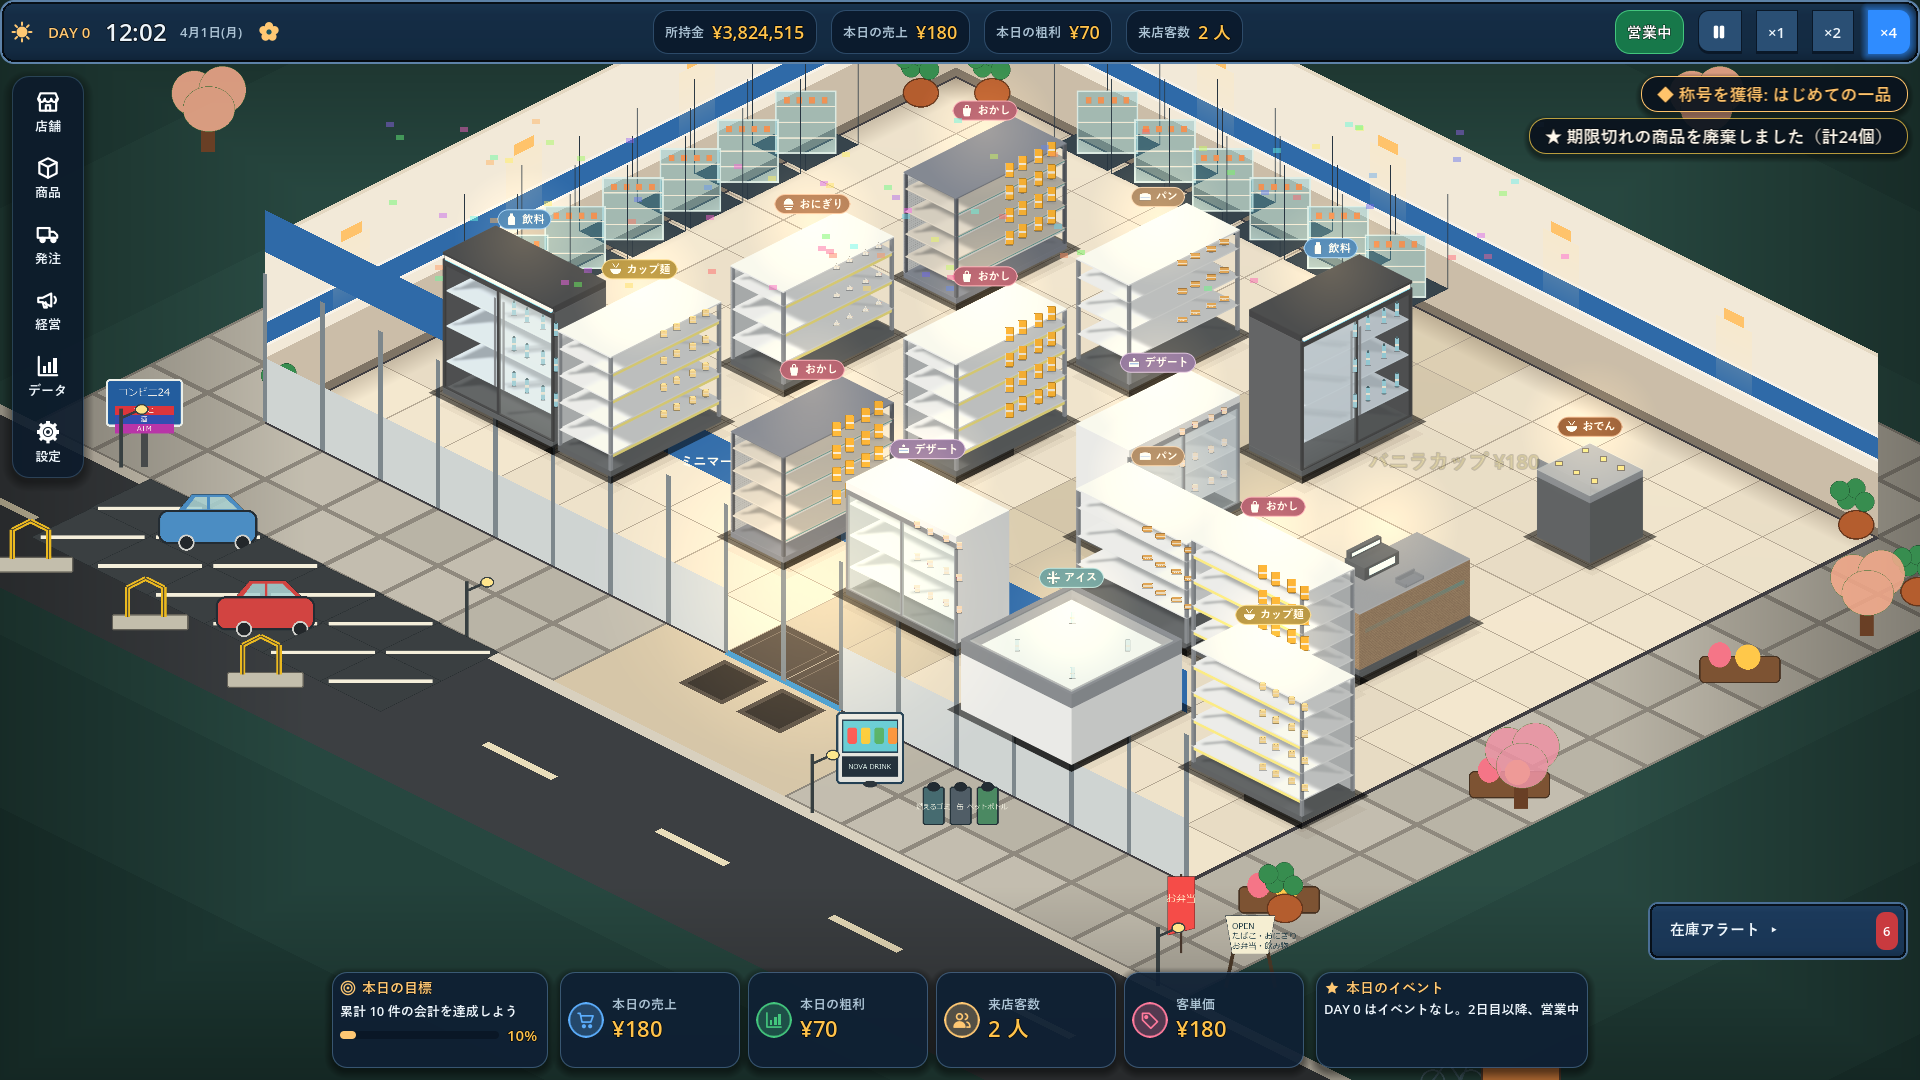
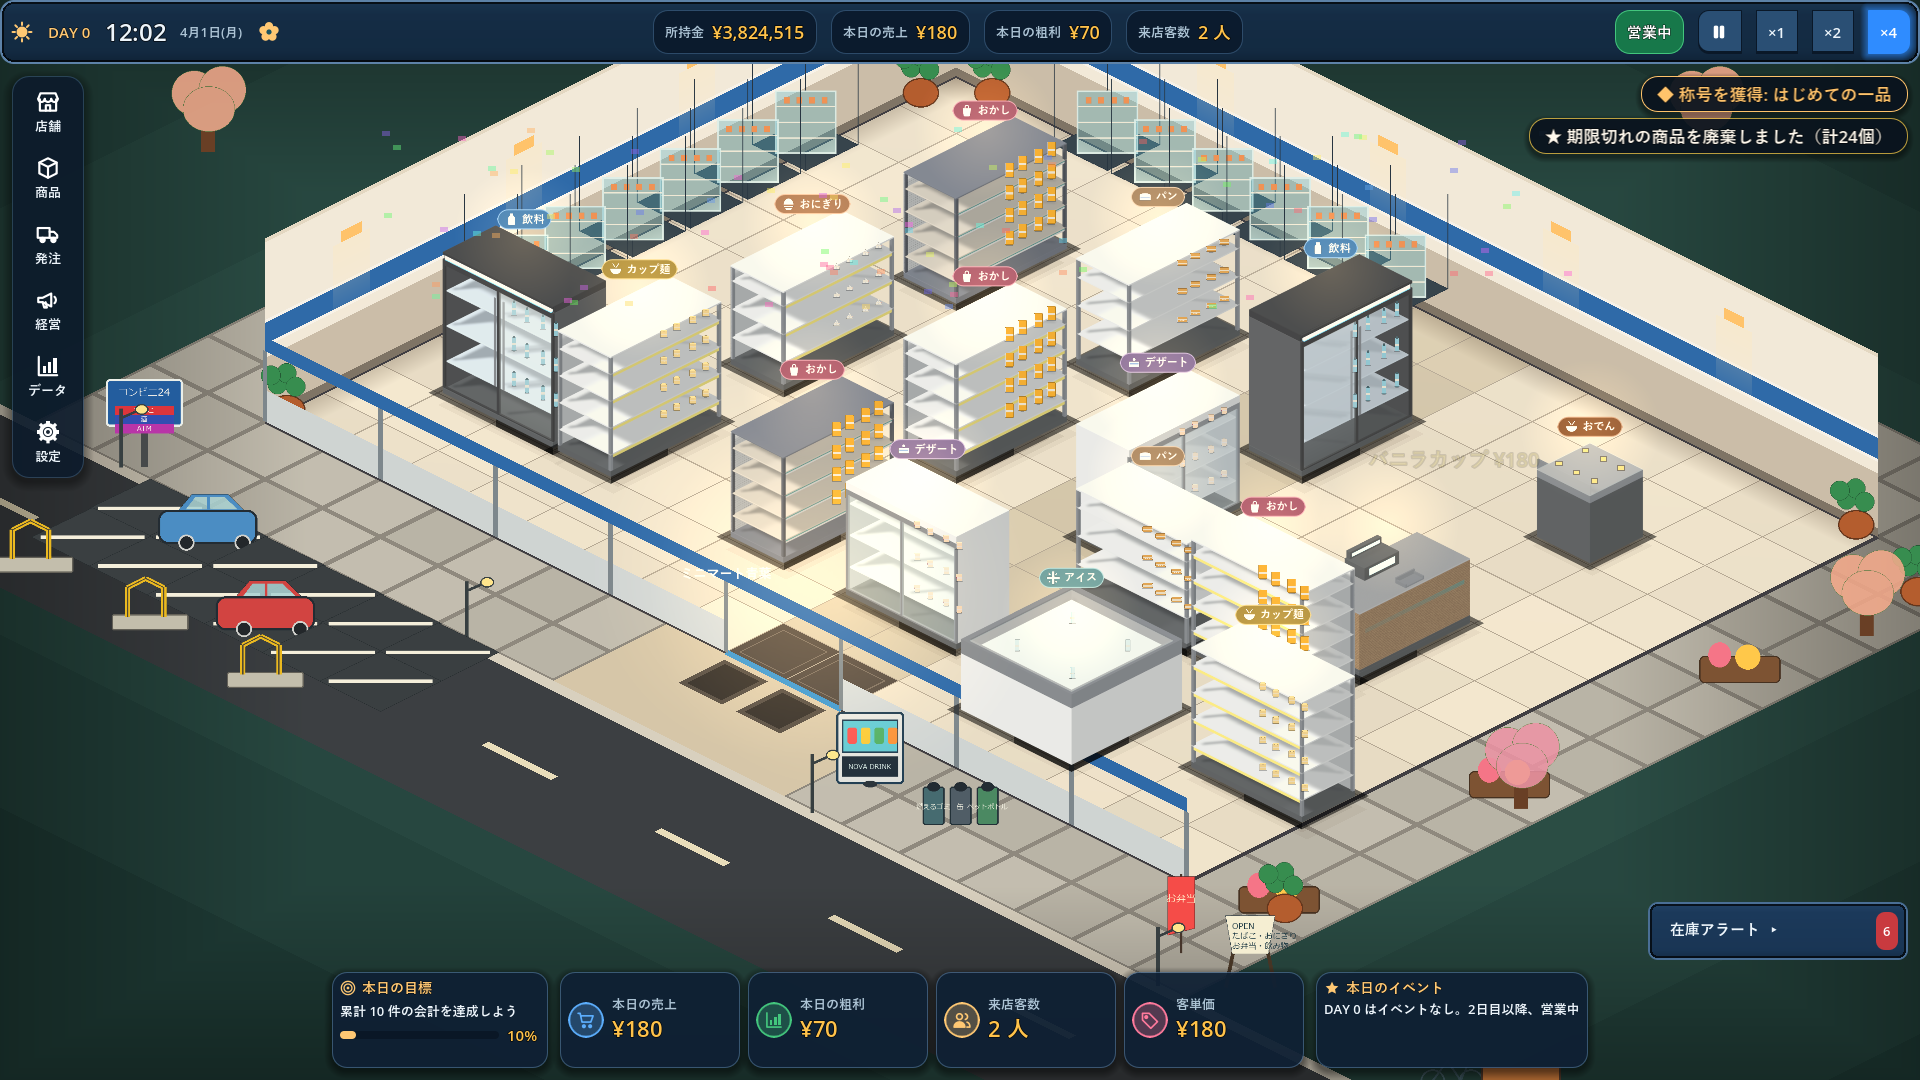
feat(decor): low cut-away storefront on the near side; keep the door aisle clear in QA layouts
- Near storefront: sill 0.45 m, short window frames with a mullion every other tile up to 1.0 m, and a thin fascia
  cap 1.0-1.2 m. Nothing rises above ~1.2 m, so the interior stays visible. The door is a clear opening with mats.
  Sill and frames are one polygon per run (fewer draw ops).
- QA/bench fixture plans (tools/perf_bench.gd, tools/capture_screen.gd): shelf_snack moved from (7,11) to (12,11)
  so the row by the door stays an aisle. Same fixture count (20) and customers (30). Gameplay data unchanged.
- Perf (x1, 1920x1080, 3 runs each): before median 20.9/18.1/17.7 ms, after 17.4/17.4/20.5 ms; within run-to-run noise.
- Tests: tests=472 failures=0, no SCRIPT ERROR.
- docs/qa/MVP_ACCEPTANCE_RESULTS.md: records the move, the plan change and the measurements.

diff --git a/docs/qa/MVP_ACCEPTANCE_RESULTS.md b/docs/qa/MVP_ACCEPTANCE_RESULTS.md
@@ -71,3 +71,13 @@
 - 図形は箱ベースの仮アセット（#12 で差し替え予定）。モックアップとの見た目の差は、別途比較して調整する。
 - 人手による初見プレイ・Windows実機の通しE2Eは未実施。
 - BGM・環境音は未実装。効果音はコード合成で、初期状態はミュート。
+
+## 正面出入口（南壁）への移動と計測条件の変更(2026-10-24、feature/m12-front-entrance)
+- 新規ゲームの出入口を西壁(0,5),(0,6)から南壁(8,11),(9,11)へ移動。保存データは各自の出入口を保持するため、旧セーブはそのまま読める。
+- 正面は低い切り欠き型: 腰壁(0.45 m)・窓枠(1.0 m まで)・薄い看板帯(1.0〜1.2 m)のみ。出入口は開口、マットあり。
+- 計測用の什器配置の変更(tools/perf_bench.gd, tools/capture_screen.gd のみ。ゲームデータは変更なし): 出入口の前の (7,11) にあった shelf_snack を (12,11) へ移動し、出入口前の列を通路として空けた。什器数(20)・客数(30)・解像度・速度は従来どおり。
+- x1 の計測(1920x1080, 600フレーム, 3回ずつ、同一マシン):
+  - 移動前(a64213d, 西壁): median 20.9 / 18.1 / 17.7 ms, p95 36.2 / 30.5 / 30.0 ms
+  - 移動後: median 17.4 / 17.4 / 20.5 ms, p95 29.0 / 37.4 / 35.4 ms
+  - 同一コードでも走行差が大きく(median 17.7〜20.9 ms)、差は計測ノイズの範囲内。
+- テスト: tests/run_all.gd で tests=472, failures=0, SCRIPT ERROR 0。
